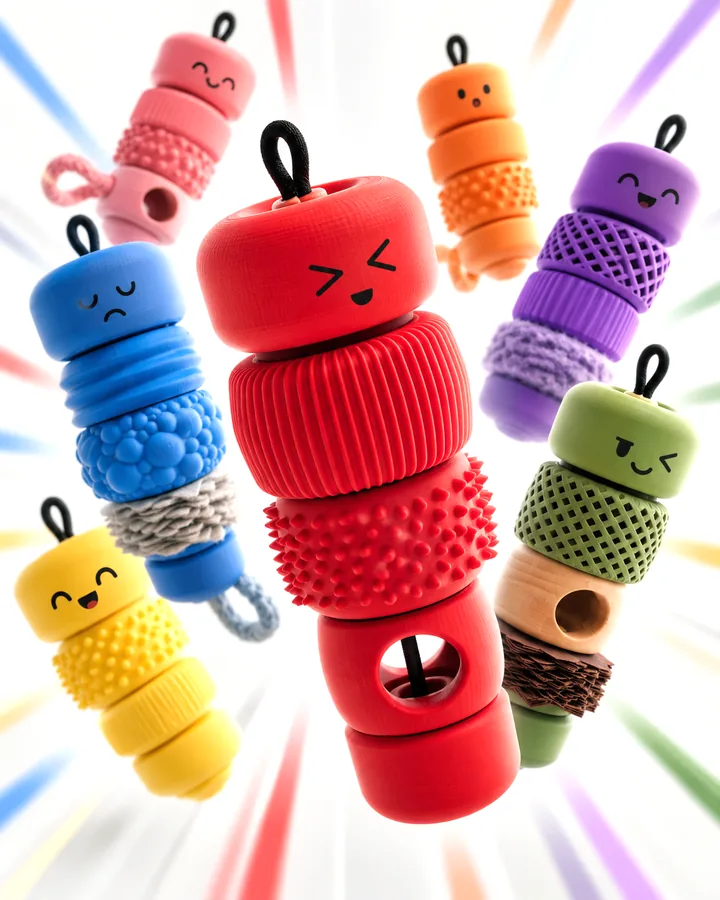
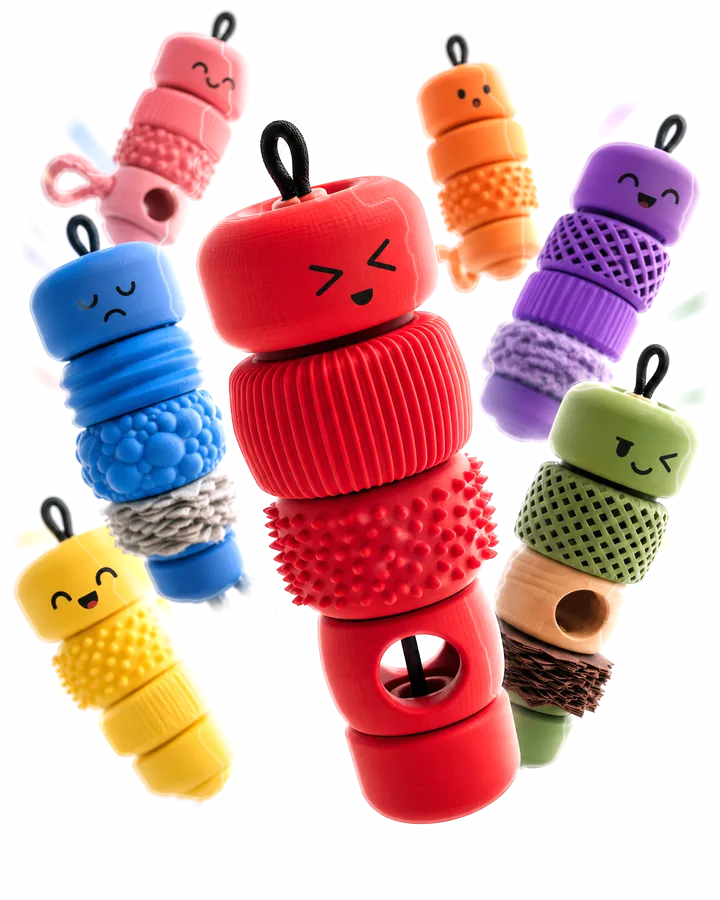
Hub splash: cut-out team (transparent) + page-wide speed lines
The team image no longer shows its rectangle: backdrop and baked-in
speed lines removed (white→alpha, KIKO interiors kept opaque), and the
speed lines are now drawn across the whole page from behind the team.

Claude-Session: https://claude.ai/code/session_019GQWbgY1tYCb9p9uw8M8ec

diff --git a/index.html b/index.html
@@ -105,8 +105,11 @@ details summary{cursor:pointer;color:var(--orange);font-weight:800;font-size:13p
 #splash{display:none}
 body.splash-on{padding:0}
 body.splash-on .wrap{display:none}
-body.splash-on #splash{display:block;min-height:100vh;min-height:100dvh;font-family:Fredoka,Arial,sans-serif;background:radial-gradient(ellipse 70% 60% at 30% 50%,#fdf6ea 0%,#f7ead8 70%)}
-.sp{min-height:100vh;min-height:100dvh;max-width:1240px;margin:0 auto;display:grid;grid-template-columns:minmax(0,.9fr) minmax(0,1.1fr);align-items:center;gap:24px;padding:24px 32px}
+body.splash-on #splash{display:block;position:relative;overflow-x:hidden;min-height:100vh;min-height:100dvh;font-family:Fredoka,Arial,sans-serif;background:radial-gradient(ellipse 70% 60% at 30% 50%,#fdf6ea 0%,#f7ead8 70%)}
+.sp-lines{position:absolute;inset:0;width:100%;height:100%;pointer-events:none;z-index:0}
+.sp-lines g{transform-origin:var(--cx) var(--cy);animation:sp-lines 1s cubic-bezier(.16,1,.3,1) .05s both}
+@keyframes sp-lines{from{opacity:0;transform:scale(.55)}to{opacity:1;transform:none}}
+.sp{position:relative;z-index:1;min-height:100vh;min-height:100dvh;max-width:1240px;margin:0 auto;display:grid;grid-template-columns:minmax(0,.9fr) minmax(0,1.1fr);align-items:center;gap:24px;padding:24px 32px}
 .sp-text{display:flex;flex-direction:column;align-items:flex-start;gap:10px}
 .sp-logo{width:46px;height:46px;border-radius:12px;animation:sp-in .5s ease .55s both}
 .sp-word{margin:0;font-weight:700;font-size:clamp(86px,11vw,170px);line-height:.92;letter-spacing:.02em;color:#ed5b2d;text-shadow:0 .045em 0 #c8401c,0 .1em .18em rgba(120,50,20,.18);animation:sp-in .6s cubic-bezier(.2,1.3,.4,1) .6s both}
@@ -121,7 +124,7 @@ body.splash-on #splash{display:block;min-height:100vh;min-height:100dvh;font-fam
 .sp-guest{font-size:14.5px;color:var(--muted);margin-top:6px;font-family:Arial,"Segoe UI",sans-serif}
 .sp-guest a{color:#c8401c;font-weight:700;text-underline-offset:3px;margin-inline-start:8px}
 .sp-hero{display:flex;justify-content:center;align-items:center}
-.sp-hero img{display:block;width:100%;max-width:680px;max-height:94vh;object-fit:contain;mix-blend-mode:multiply;-webkit-mask:linear-gradient(to right,transparent,#000 9%,#000 91%,transparent),linear-gradient(to bottom,transparent,#000 7%,#000 93%,transparent);-webkit-mask-composite:source-in;mask:linear-gradient(to right,transparent,#000 9%,#000 91%,transparent),linear-gradient(to bottom,transparent,#000 7%,#000 93%,transparent);mask-composite:intersect;animation:sp-burst .9s cubic-bezier(.16,1.18,.36,1) .05s both}
+.sp-hero img{display:block;width:100%;max-width:680px;max-height:94vh;object-fit:contain;animation:sp-burst .9s cubic-bezier(.16,1.18,.36,1) .05s both}
 @keyframes sp-burst{0%{opacity:0;transform:scale(.72) translateY(4%) rotate(-3deg)}60%{opacity:1}100%{opacity:1;transform:none}}
 @keyframes sp-in{from{opacity:0;transform:translateY(12px)}to{opacity:1;transform:none}}
 @media (max-width:760px){
@@ -134,7 +137,7 @@ body.splash-on #splash{display:block;min-height:100vh;min-height:100dvh;font-fam
   .sp-tag{margin-bottom:12px}
   .sp-actions{width:100%}
 }
-@media (prefers-reduced-motion:reduce){.sp-hero img,.sp-word,.sp-tag,.sp-actions,.sp-logo{animation:none}}
+@media (prefers-reduced-motion:reduce){.sp-lines g,.sp-hero img,.sp-word,.sp-tag,.sp-actions,.sp-logo{animation:none}}
 </style>
 </head>
 <body>
@@ -237,8 +240,36 @@ function showWelcome(){
       <div class="sp-hero"><img src="assets/hero/kiko-team.webp" srcset="assets/hero/kiko-team-720.webp 720w, assets/hero/kiko-team.webp 1122w" sizes="(max-width:760px) 430px, 640px" alt="צוות KIKO – דמויות בצבעים שונים, כל אחת בנויה מחלקים במרקמים שונים, עפות לעבר המסך"></div>
     </div>`;
   document.body.classList.add('splash-on');
+  drawSpeedLines(sp);
   sp.querySelector('#goRegister').onclick = showRegister;
   sp.querySelector('#goLogin').onclick = showLogin;
+}
+
+const LINE_COLORS = ['#f19a92','#9cc0f0','#f6cf62','#c3a6ee','#a9cf98','#f7b27a','#f3a6c8'];
+function drawSpeedLines(sp){
+  const old = sp.querySelector('.sp-lines'); if(old) old.remove();
+  const img = sp.querySelector('.sp-hero img'); if(!img) return;
+  const place = () => {
+    const box = sp.getBoundingClientRect(), r = img.getBoundingClientRect();
+    if(!r.width) return;
+    const cx = r.left - box.left + r.width/2, cy = r.top - box.top + r.height*.47;
+    const W = box.width, H = Math.max(box.height, window.innerHeight), R = Math.hypot(W, H);
+    const inner = Math.min(r.width, r.height) * .42;
+    let lines = '';
+    for(let i = 0; i < 46; i++){
+      const a = (i / 46) * Math.PI * 2 + Math.sin(i * 12.9) * .05;
+      const r1 = inner * (0.95 + ((i * 37) % 11) / 20), r2 = r1 + R * (0.18 + ((i * 53) % 17) / 40);
+      const w = 3 + ((i * 29) % 9);
+      lines += `<line x1="${(cx + Math.cos(a)*r1).toFixed(1)}" y1="${(cy + Math.sin(a)*r1).toFixed(1)}" x2="${(cx + Math.cos(a)*r2).toFixed(1)}" y2="${(cy + Math.sin(a)*r2).toFixed(1)}" stroke="${LINE_COLORS[i % LINE_COLORS.length]}" stroke-width="${w}" stroke-linecap="round" opacity="${(.32 + ((i * 7) % 5) * .07).toFixed(2)}"/>`;
+    }
+    const fade = Math.max(r.width, r.height) * 0.95;
+    const svg = `<svg class="sp-lines" style="--cx:${cx}px;--cy:${cy}px" viewBox="0 0 ${W} ${H}" preserveAspectRatio="none" aria-hidden="true"><defs><radialGradient id="spFade" gradientUnits="userSpaceOnUse" cx="${cx}" cy="${cy}" r="${fade}"><stop offset=".25" stop-color="#fff"/><stop offset=".62" stop-color="#fff" stop-opacity=".85"/><stop offset="1" stop-color="#fff" stop-opacity="0"/></radialGradient><mask id="spMask"><rect width="${W}" height="${H}" fill="url(#spFade)"/></mask><filter id="spBlur"><feGaussianBlur stdDeviation="1.6"/></filter></defs><g mask="url(#spMask)" filter="url(#spBlur)">${lines}</g></svg>`;
+    const prev = sp.querySelector('.sp-lines'); if(prev) prev.remove();
+    sp.insertAdjacentHTML('afterbegin', svg);
+  };
+  if(img.complete) place(); else img.addEventListener('load', place, {once:true});
+  clearTimeout(drawSpeedLines.t);
+  window.onresize = () => { clearTimeout(drawSpeedLines.t); drawSpeedLines.t = setTimeout(() => { if(document.body.classList.contains('splash-on')) place(); }, 150); };
 }
 
 /* ---------- register ---------- */
